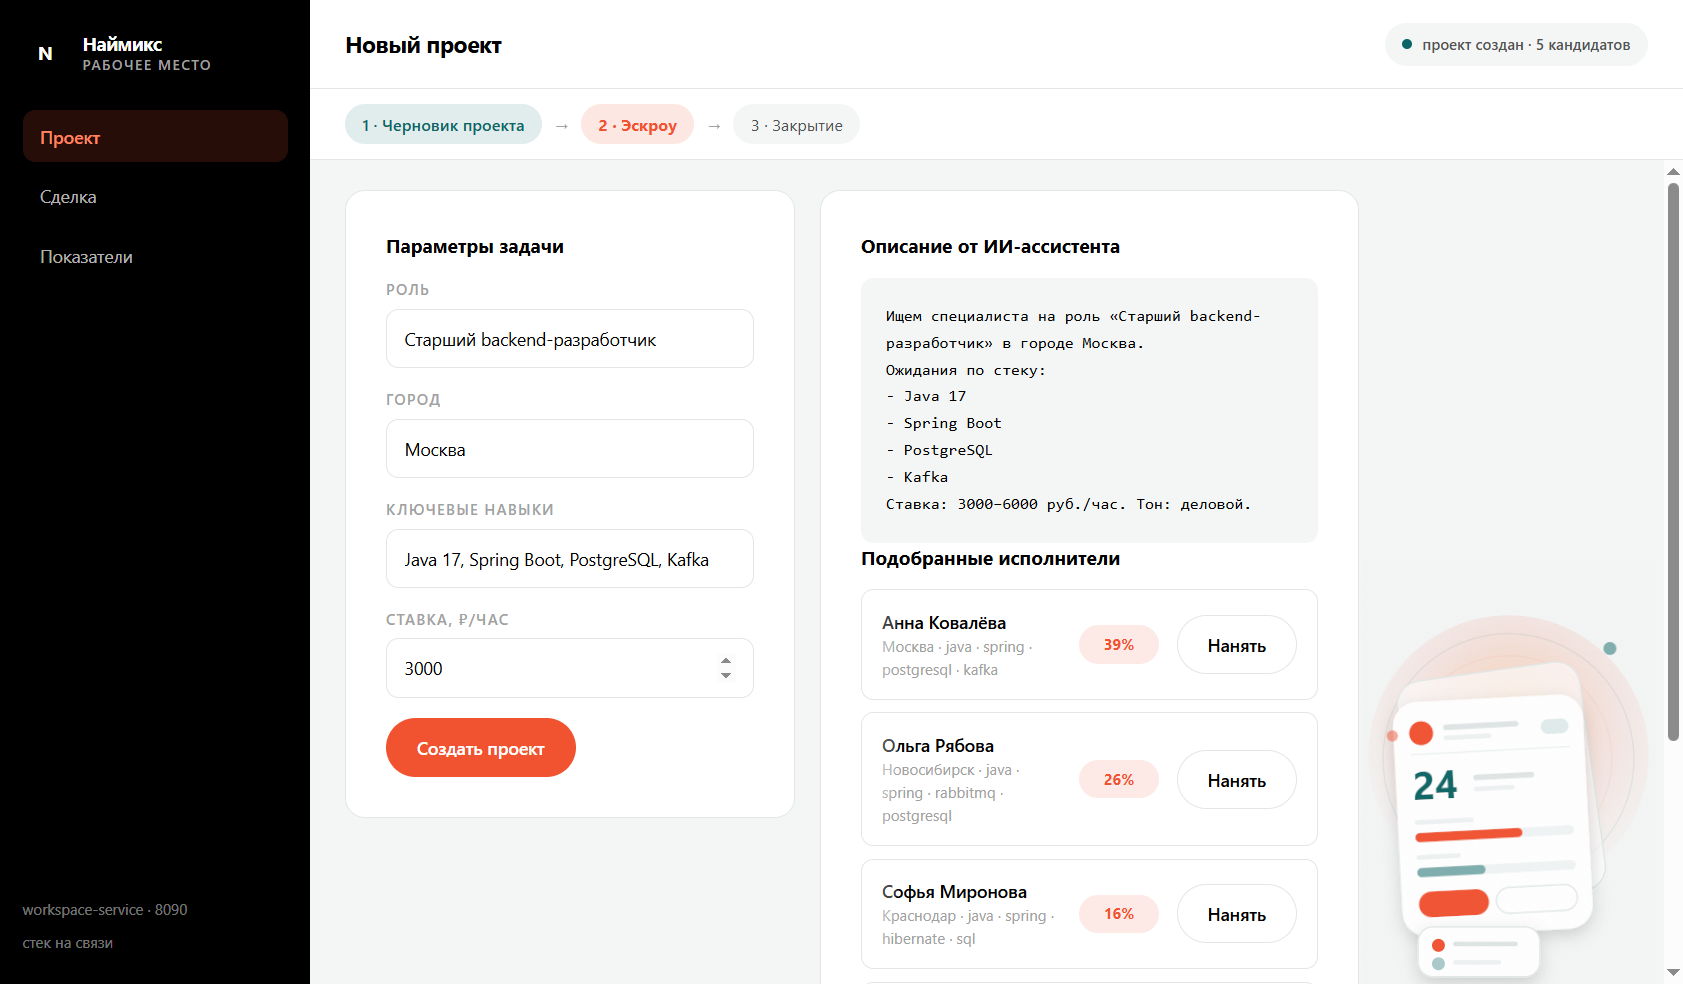
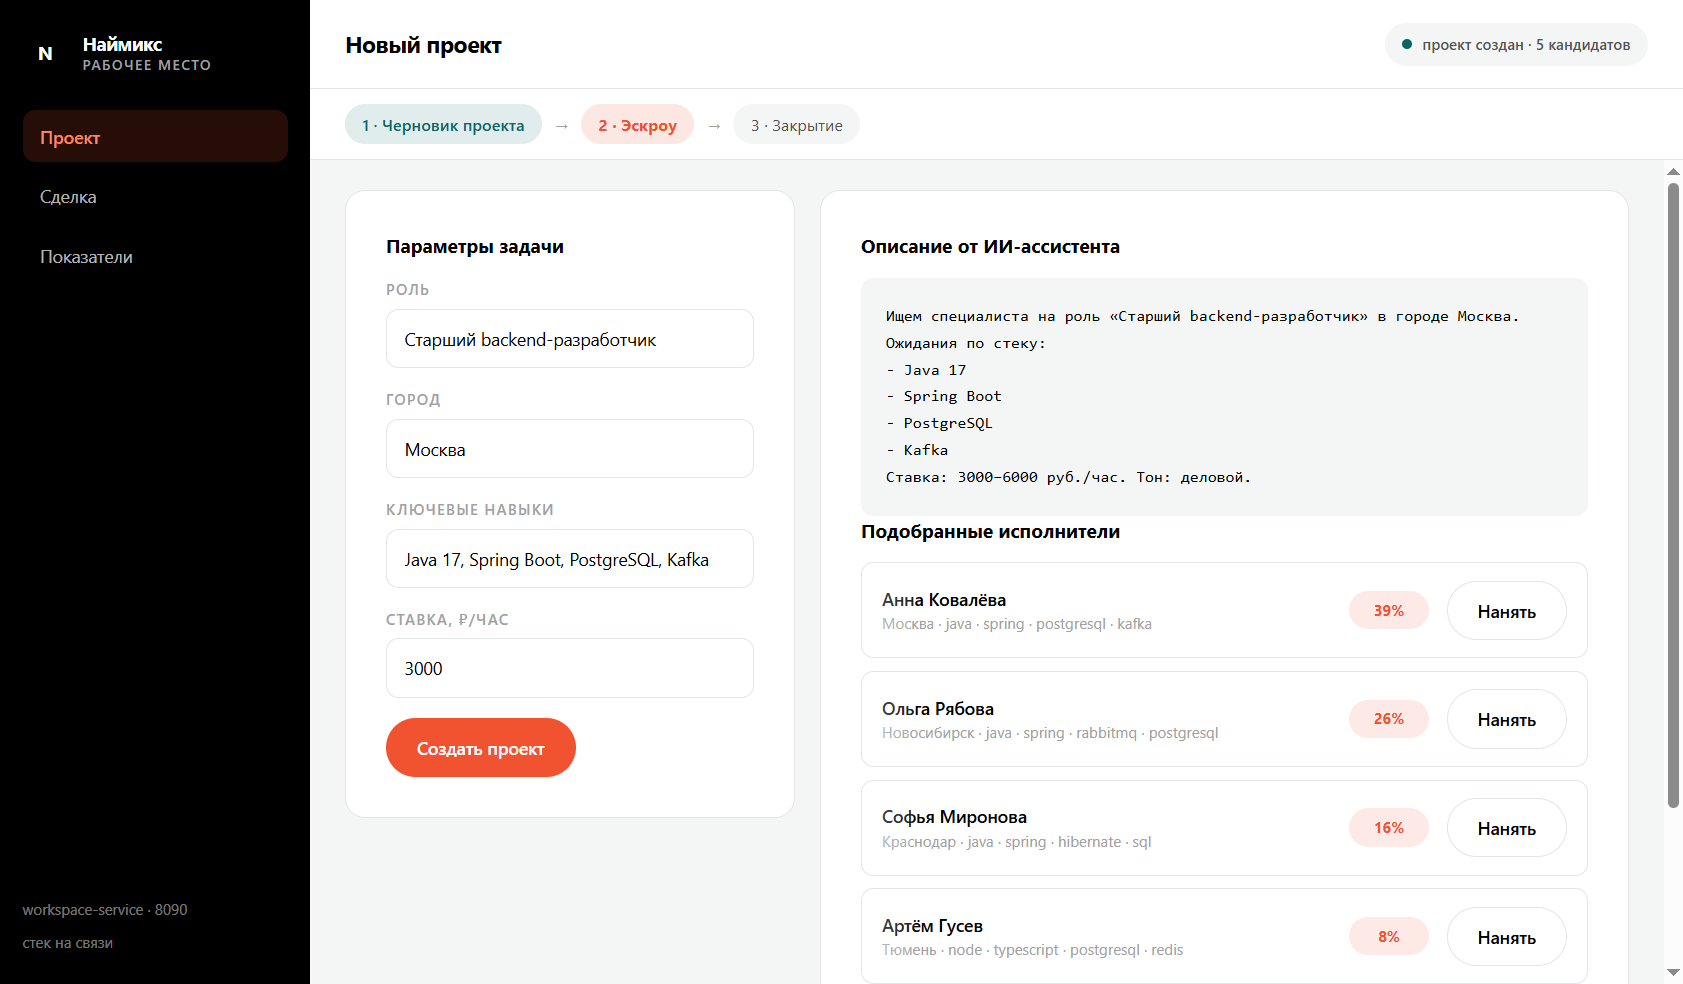
refactor(desktop): убрана декоративная иллюстрация из кабинета
Рабочая область теперь использует всю ширину без правого отступа под SVG; удалены стили и код отслеживания прокрутки, привязанные к иллюстрации.

diff --git a/desktop/renderer/index.html b/desktop/renderer/index.html
@@ -115,95 +115,6 @@
 
     </div>
 
-    <svg class="character" id="character" viewBox="0 0 320 460" fill="none" aria-hidden="true">
-      <defs>
-        <radialGradient id="ch-halo" cx="52%" cy="38%" r="62%">
-          <stop offset="0%" stop-color="#fe982d" stop-opacity="0.32"/>
-          <stop offset="58%" stop-color="#f15330" stop-opacity="0.11"/>
-          <stop offset="100%" stop-color="#f15330" stop-opacity="0"/>
-        </radialGradient>
-        <linearGradient id="ch-coin" x1="0" y1="0" x2="0.55" y2="1">
-          <stop offset="0%" stop-color="#ffc37a"/>
-          <stop offset="52%" stop-color="#fe982d"/>
-          <stop offset="100%" stop-color="#d97512"/>
-        </linearGradient>
-        <filter id="ch-shadow" x="-40%" y="-40%" width="180%" height="180%">
-          <feDropShadow dx="0" dy="7" stdDeviation="9" flood-color="#1b1210" flood-opacity="0.16"/>
-        </filter>
-        <filter id="ch-grain" x="0" y="0" width="100%" height="100%">
-          <feTurbulence type="fractalNoise" baseFrequency="0.85" numOctaves="2" stitchTiles="stitch"/>
-          <feColorMatrix type="saturate" values="0"/>
-        </filter>
-      </defs>
-
-      <circle cx="160" cy="212" r="152" fill="url(#ch-halo)"/>
-      <circle cx="160" cy="216" r="136" fill="none" stroke="#0c6565" stroke-width="1.5" opacity="0.08"/>
-      <circle cx="160" cy="216" r="112" fill="none" stroke="#f15330" stroke-width="1.5" opacity="0.06"/>
-
-      <g class="ch-figure">
-        <g transform="rotate(-8 152 244)">
-          <rect x="52" y="120" width="200" height="250" rx="26" fill="#ffffff" opacity="0.62"/>
-          <rect x="52" y="120" width="200" height="250" rx="26" fill="none" stroke="#e2e8e8" stroke-width="1.5"/>
-        </g>
-
-        <g filter="url(#ch-shadow)" transform="rotate(-3 143 277)">
-          <rect x="40" y="150" width="206" height="254" rx="26" fill="#ffffff"/>
-          <circle cx="70" cy="184" r="13" fill="#f15330"/>
-          <rect x="94" y="176" width="82" height="6" rx="3" fill="#dfe5e5"/>
-          <rect x="94" y="188" width="52" height="5" rx="2.5" fill="#eef2f2"/>
-          <rect x="200" y="176" width="30" height="16" rx="8" fill="#0c6565" opacity="0.13"/>
-
-          <rect x="58" y="206" width="172" height="1.5" fill="#eef2f2"/>
-
-          <text x="58" y="256" font-family="Onest, Segoe UI, Arial, sans-serif" font-size="42" font-weight="700" fill="#0c6565">24</text>
-          <rect x="124" y="232" width="66" height="6" rx="3" fill="#dfe5e5"/>
-          <rect x="124" y="245" width="44" height="5" rx="2.5" fill="#eef2f2"/>
-
-          <rect x="58" y="278" width="64" height="5" rx="2.5" fill="#eef2f2"/>
-          <rect x="58" y="292" width="172" height="10" rx="5" fill="#f0f4f4"/>
-          <rect x="58" y="292" width="116" height="10" rx="5" fill="#f15330"/>
-
-          <rect x="58" y="316" width="48" height="5" rx="2.5" fill="#eef2f2"/>
-          <rect x="58" y="330" width="172" height="10" rx="5" fill="#f0f4f4"/>
-          <rect x="58" y="330" width="74" height="10" rx="5" fill="#0c6565" opacity="0.5"/>
-
-          <rect x="58" y="356" width="76" height="28" rx="14" fill="#f15330"/>
-          <rect x="142" y="356" width="88" height="28" rx="14" fill="#ffffff" stroke="#e2e8e8" stroke-width="1.5"/>
-        </g>
-      </g>
-
-      <g class="ch-prop ch-prop--project" filter="url(#ch-shadow)">
-        <rect x="62" y="398" width="132" height="54" rx="16" fill="#ffffff"/>
-        <rect x="62" y="398" width="132" height="54" rx="16" fill="none" stroke="#e2e8e8" stroke-width="1.5"/>
-        <circle cx="84" cy="418" r="7" fill="#f15330"/>
-        <rect x="100" y="414" width="70" height="5" rx="2.5" fill="#dfe5e5"/>
-        <circle cx="84" cy="438" r="7" fill="#0c6565" opacity="0.35"/>
-        <rect x="100" y="434" width="52" height="5" rx="2.5" fill="#eef2f2"/>
-      </g>
-
-      <g class="ch-prop ch-prop--deal" filter="url(#ch-shadow)">
-        <circle cx="248" cy="382" r="44" fill="url(#ch-coin)"/>
-        <circle cx="248" cy="382" r="35" fill="#ffffff"/>
-        <circle cx="248" cy="382" r="35" fill="none" stroke="#f6c795" stroke-width="2"/>
-        <text x="248" y="396" text-anchor="middle" font-family="Onest, Segoe UI, Arial, sans-serif" font-size="36" font-weight="700" fill="#f15330">₽</text>
-        <path d="M218 356 C228 346 241 342 254 343" stroke="#ffffff" stroke-width="4" stroke-linecap="round" opacity="0.45" fill="none"/>
-      </g>
-
-      <g class="ch-prop ch-prop--kpi" filter="url(#ch-shadow)">
-        <rect x="14" y="364" width="118" height="80" rx="16" fill="#ffffff"/>
-        <rect x="14" y="364" width="118" height="80" rx="16" fill="none" stroke="#e2e8e8" stroke-width="1.5"/>
-        <path d="M28 428 H118" stroke="#cfd7d7" stroke-width="2.5" stroke-linecap="round"/>
-        <rect x="32" y="406" width="14" height="22" rx="5" fill="#cfd7d7"/>
-        <rect x="52" y="396" width="14" height="32" rx="5" fill="#f15330"/>
-        <rect x="72" y="388" width="14" height="40" rx="5" fill="#0c6565" opacity="0.55"/>
-        <rect x="92" y="374" width="14" height="54" rx="5" fill="#0c6565"/>
-        <path d="M32 398 L56 388 L78 392 L104 376" stroke="#fe982d" stroke-width="3" stroke-linecap="round" fill="none"/>
-      </g>
-
-      <circle class="ch-dot" cx="270" cy="102" r="7" fill="#0c6565" opacity="0.5"/>
-      <circle class="ch-dot ch-dot--slow" cx="34" cy="196" r="6" fill="#f15330" opacity="0.5"/>
-      <rect width="320" height="460" filter="url(#ch-grain)" opacity="0.05"/>
-    </svg>
   </main>
 </div>
 

diff --git a/desktop/renderer/styles.css b/desktop/renderer/styles.css
@@ -75,7 +75,7 @@ body {
 .workspace__body {
   flex: 1;
   overflow-y: auto;
-  padding: 24px 244px 32px 28px;
+  padding: 24px 28px 32px;
 }
 
 .columns {
@@ -207,75 +207,6 @@ body {
 
 .timeline__step--active {
   background: var(--accent);
-}
-
-.character {
-  position: absolute;
-  right: 22px;
-  bottom: 0;
-  width: 236px;
-  z-index: 0;
-  pointer-events: none;
-  user-select: none;
-  transform: translateY(calc(var(--scroll, 0) * -12px));
-  transition: transform 0.25s ease-out;
-}
-
-.ch-figure {
-  transform-origin: 160px 240px;
-  transition: transform 0.6s cubic-bezier(0.2, 0.7, 0.3, 1);
-}
-
-body[data-view="deal"] .ch-figure {
-  transform: rotate(-1.6deg) translateY(-3px);
-}
-
-body[data-view="kpi"] .ch-figure {
-  transform: rotate(1.6deg) translateY(-5px);
-}
-
-.ch-prop {
-  opacity: 0;
-  transform: translateY(12px);
-  transition: opacity 0.45s ease, transform 0.5s cubic-bezier(0.2, 0.7, 0.3, 1);
-}
-
-body[data-view="project"] .ch-prop--project,
-body[data-view="deal"] .ch-prop--deal,
-body[data-view="kpi"] .ch-prop--kpi {
-  opacity: 1;
-  transform: translateY(0);
-}
-
-.ch-dot {
-  transform-origin: 220px 130px;
-  animation: ch-float 5s ease-in-out infinite;
-}
-
-.ch-dot--slow {
-  animation-duration: 7s;
-  animation-direction: alternate-reverse;
-}
-
-@keyframes ch-float {
-  0%,
-  100% {
-    transform: translateY(0);
-  }
-
-  50% {
-    transform: translateY(-6px);
-  }
-}
-
-@media (prefers-reduced-motion: reduce) {
-  .character,
-  .ch-figure,
-  .ch-prop,
-  .ch-dot {
-    transition: none;
-    animation: none;
-  }
 }
 
 .panel--flat {

diff --git a/desktop/renderer/app.js b/desktop/renderer/app.js
@@ -4,11 +4,6 @@ const state = { vacancyId: null, holdId: null, candidates: [] };
 
 const qs = (selector) => document.querySelector(selector);
 
-const trackScroll = (event) => {
-  const ratio = event.target.scrollTop / (event.target.scrollHeight - event.target.clientHeight || 1);
-  qs("#character").style.setProperty("--scroll", String(ratio));
-};
-
 const setText = (selector, value) => {
   qs(selector).textContent = value;
 };
@@ -280,13 +275,8 @@ const wireNav = () => {
   document.querySelectorAll(".side__link").forEach(bindNav);
 };
 
-const wireScroll = () => {
-  qs(".workspace__body").addEventListener("scroll", trackScroll);
-};
-
 const wire = () => {
   wireNav();
-  wireScroll();
 };
 
 const start = () => {

diff --git a/README.md b/README.md
@@ -19,11 +19,8 @@
 2. [02-escrow-held.png](desktop/screenshots/02-escrow-held.png) — сделка, эскроу HELD, уведомление
 3. [03-kpi.png](desktop/screenshots/03-kpi.png) — показатели аналитики
 
-Иллюстрация в правом нижнем углу — векторная композиция из объектов продукта: стопка карточек
-на тёплом гало, монета и мини-график, без фигуры человека. Набор объектов меняется при переходе
-между разделами: на «Проекте» появляется список задач, на «Сделке» — монета с ₽, на «Показателях» —
-карточка с графиком. Стопка слегка наклоняется, а при прокрутке смещается вместе с контентом
-(переменная `--scroll` и `data-view` на `body`).
+Рабочая область кабинета занимает всю ширину: без декоративной иллюстрации, только данные,
+панели и акцентные элементы. Главный акцент раздела — статус стека в левом нижнем углу.
 
 Electron-приложение (`desktop/`) — рабочее место заказчика: создание проекта с ИИ-описанием,
 подбор исполнителей, эскроу-сделка, показатели аналитики. Стиль повторяет сайт компании:
